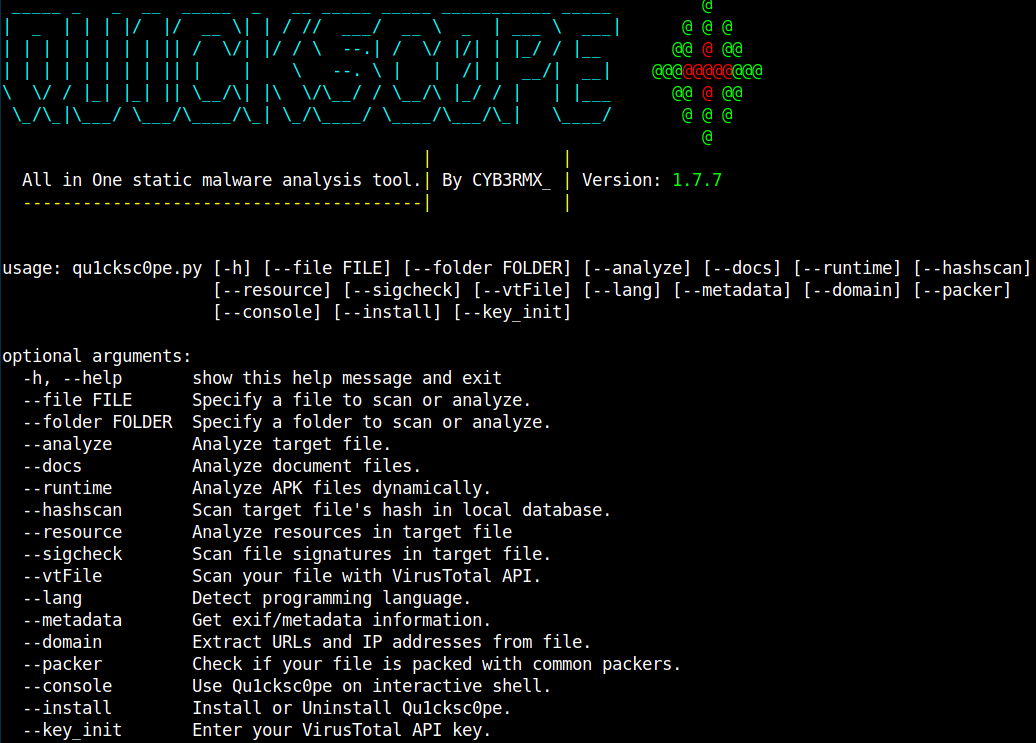
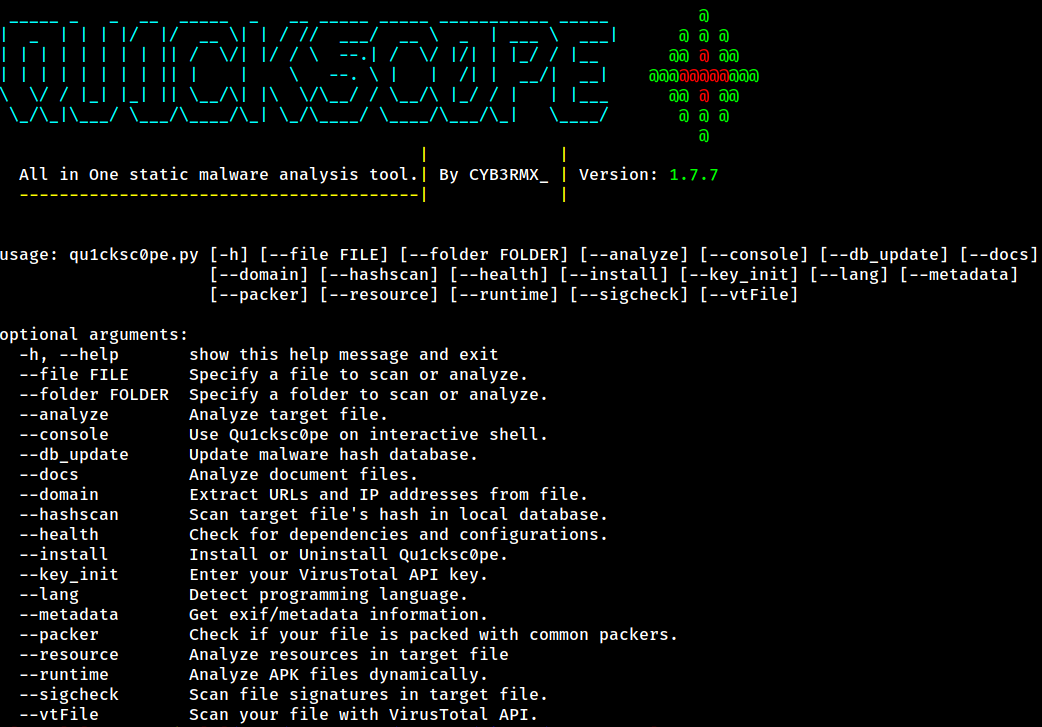
News 28/02/2022 16:25

diff --git a/Modules/hashScanner.py b/Modules/hashScanner.py
@@ -1,8 +1,8 @@
 #!/usr/bin/python3
 
-from unicodedata import name
 import requests
 import os
+import re
 import hashlib
 import sys
 import math
@@ -41,9 +41,6 @@ except:
     print("Error: >rich< module not found.")
     sys.exit(1)
 
-# File handling
-targetFile = str(sys.argv[1])
-
 # Parsing date
 today = date.today()
 dformat = today.strftime("%d-%m-%Y")
@@ -81,26 +78,29 @@ else:
 # Configurating installation directory
 install_dir = f"{homeD}/{username}/sc0pe_Base"
 
+def Downloader():
+    local_database = f"{install_dir}/HashDB"
+    dbUrl = "https://raw.githubusercontent.com/CYB3RMX/MalwareHashDB/main/HashDB"
+    req = requests.get(dbUrl, stream=True)
+    total_size = int(req.headers.get('content-length', 0))
+    block_size = 1024
+    wrote = 0
+    print(f"\n{infoS} Downloading signature database please wait...")
+    try:
+        with open(local_database, 'wb') as ff:
+            for data in tqdm(req.iter_content(block_size), total=math.ceil(total_size//block_size), unit='KB', unit_scale=True):
+                wrote = wrote + len(data)
+                ff.write(data)
+        sys.exit(0)
+    except:
+        sys.exit(0)
+
 def DatabaseCheck():
     if os.path.isfile(f"{install_dir}/HashDB") == False:
         r_console.print("[blink bold white on red]Local signature database not found!!")
         choose = str(input(f"{green}=>{white} Would you like to download it [Y/n]?: "))
         if choose == "Y" or choose == "y":
-            local_database = f"{install_dir}/HashDB"
-            dbUrl = "https://raw.githubusercontent.com/CYB3RMX/MalwareHashDB/main/HashDB"
-            req = requests.get(dbUrl, stream=True)
-            total_size = int(req.headers.get('content-length', 0))
-            block_size = 1024
-            wrote = 0
-            print(f"\n{infoS} Downloading signature database please wait...")
-            try:
-                with open(local_database, 'wb') as ff:
-                    for data in tqdm(req.iter_content(block_size), total=math.ceil(total_size//block_size), unit='KB', unit_scale=True):
-                        wrote = wrote + len(data)
-                        ff.write(data)
-                sys.exit(0)
-            except:
-                sys.exit(0)
+            Downloader()
         else:
             r_console.print("\n[bold white on red]Without local database [blink]--hashscan[/blink] [white]will not work!!\n")
             sys.exit(1)
@@ -122,6 +122,28 @@ if os.path.exists(f"{install_dir}/HashDB"):
     dbcursor = hashbase.cursor()
 else:
     DatabaseCheck()
+
+# Check for if database is up to date
+def UpToDate():
+    r_console.print("[bold]Checking for database state...")
+    try:
+        dbs = requests.get("https://raw.githubusercontent.com/CYB3RMX/MalwareHashDB/main/README.md")
+        database_content = dbcursor.execute(f"SELECT * FROM HashDB").fetchall()
+        match = re.findall(str(len(database_content)), str(dbs.text))
+        if match != []:
+            r_console.print("[bold]Database State: [bold green]Up to date.\n")
+        else:
+            r_console.print("[bold]Database State: [bold red]Outdated.")
+            r_console.print("[bold magenta]>>>[bold white] You should use [bold green]'--db_update' [bold white]argument to update your malware hash database.\n")
+    except:
+        r_console.print("[bold white on red]An error occured while connecting to Github!!")
+
+# Updating database
+def DatabaseUpdate():
+    r_console.print("[bold magenta]>>>[bold white] Removing old database...")
+    os.system(f"rm -rf {install_dir}/HashDB")
+    Downloader()
+    r_console.print("[bold green]>>>[bold white] New database has successfully downloaded.")
 
 # Handling single scans
 def NormalScan():
@@ -293,9 +315,18 @@ def MultipleScan():
         json.dump(scan_report, rp_file, indent=4)
 
 if __name__ == '__main__':
+    # File handling
+    if str(sys.argv[1]) == '--db_update':
+        DatabaseUpdate()
+    else:
+        targetFile = str(sys.argv[1])
+
+    # Argument side
     if str(sys.argv[2]) == '--normal':
+        UpToDate()
         NormalScan()
     elif str(sys.argv[2]) == '--multiscan':
+        UpToDate()
         MultipleScan()
     else:
         pass

diff --git a/qu1cksc0pe.py b/qu1cksc0pe.py
@@ -102,6 +102,8 @@ parser.add_argument("--analyze", required=False,
                     help="Analyze target file.", action="store_true")
 parser.add_argument("--console", required=False,
                     help="Use Qu1cksc0pe on interactive shell.", action="store_true")
+parser.add_argument("--db_update", required=False,
+                    help="Update malware hash database.", action="store_true")
 parser.add_argument("--docs", required=False, help="Analyze document files.",
                     action="store_true")
 parser.add_argument("--domain", required=False,
@@ -339,6 +341,11 @@ def Qu1cksc0pe():
     # Dependency checker
     if args.health:
         command = f"python3 {sc0pe_path}/Modules/checkHealth.py"
+        os.system(command)
+
+    # Database update
+    if args.db_update:
+        command = f"python3 {sc0pe_path}/Modules/hashScanner.py --db_update"
         os.system(command)
 
     # entering VT API key

diff --git a/README.md b/README.md
@@ -14,7 +14,7 @@
 Qu1cksc0pe aims to get even more information about suspicious files and helps user realize what that file is capable of.
 
 # Usage
-```
+```bash
 python3 qu1cksc0pe.py --file suspicious_file --analyze
 ```
 
@@ -22,12 +22,10 @@ python3 qu1cksc0pe.py --file suspicious_file --analyze
 ![Screen](.animations/Screenshot.png)
 
 # Updates
-<b>01/02/2022</b>
-- [X] Added new ```YARA``` rules for malware detection to ```WindowsAnalyzer``` module.
-- [X] ```Interactive Shell Mode``` is upgraded.
-- [X] ```VirusTotal API Scanner``` module is upgraded.
-- [X] Added TUI to ```HashScanner```. Now folder scans are way more effective.<br>
-![update_gif](.animations/hashscan_tui.gif)
+<b>28/02/2022</b>
+- [X] Added new ```Database Update``` argument to ```HashScanner``` module. Now you can update your malware hash database whenever you want.
+<b>Usage:</b> ```python3 qu1cksc0pe.py --db_update```
+- [X] Added new ```Windows API' s``` to ```WindowsAnalyzer' s``` wordlists.
 
 # Available On
 ![blackarch_banner](.animations/blackarch.png)
